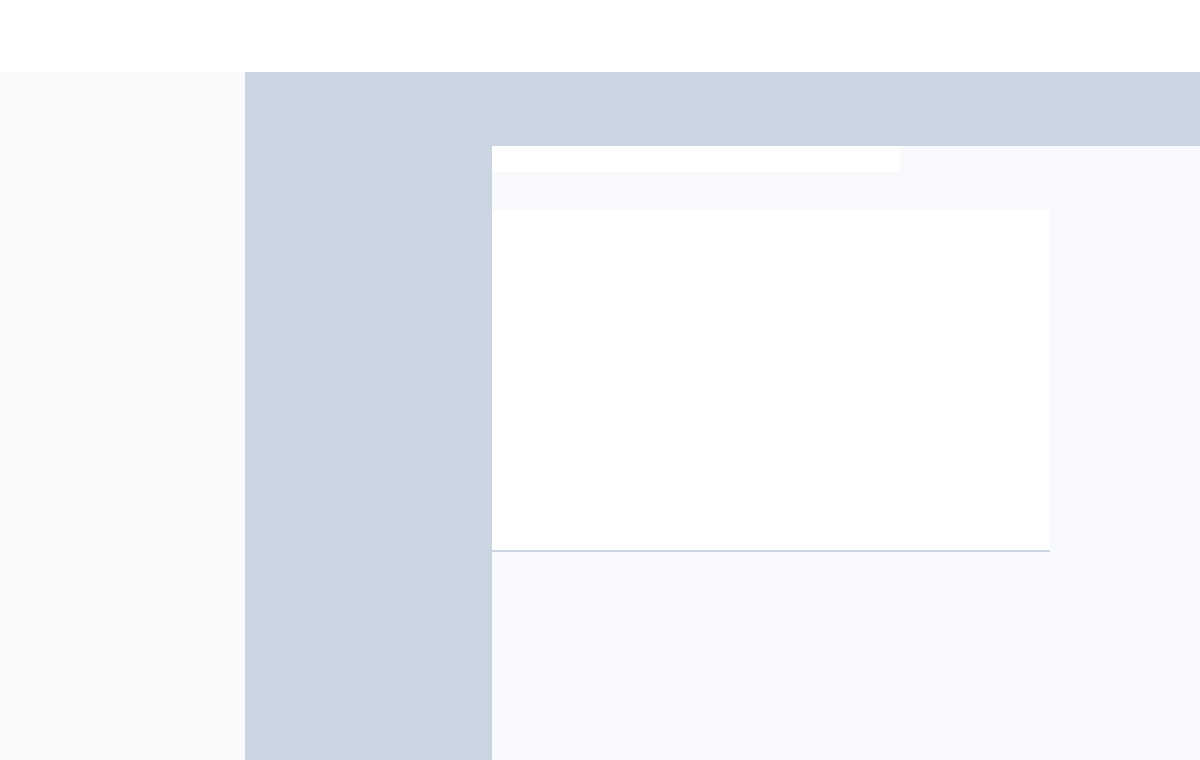
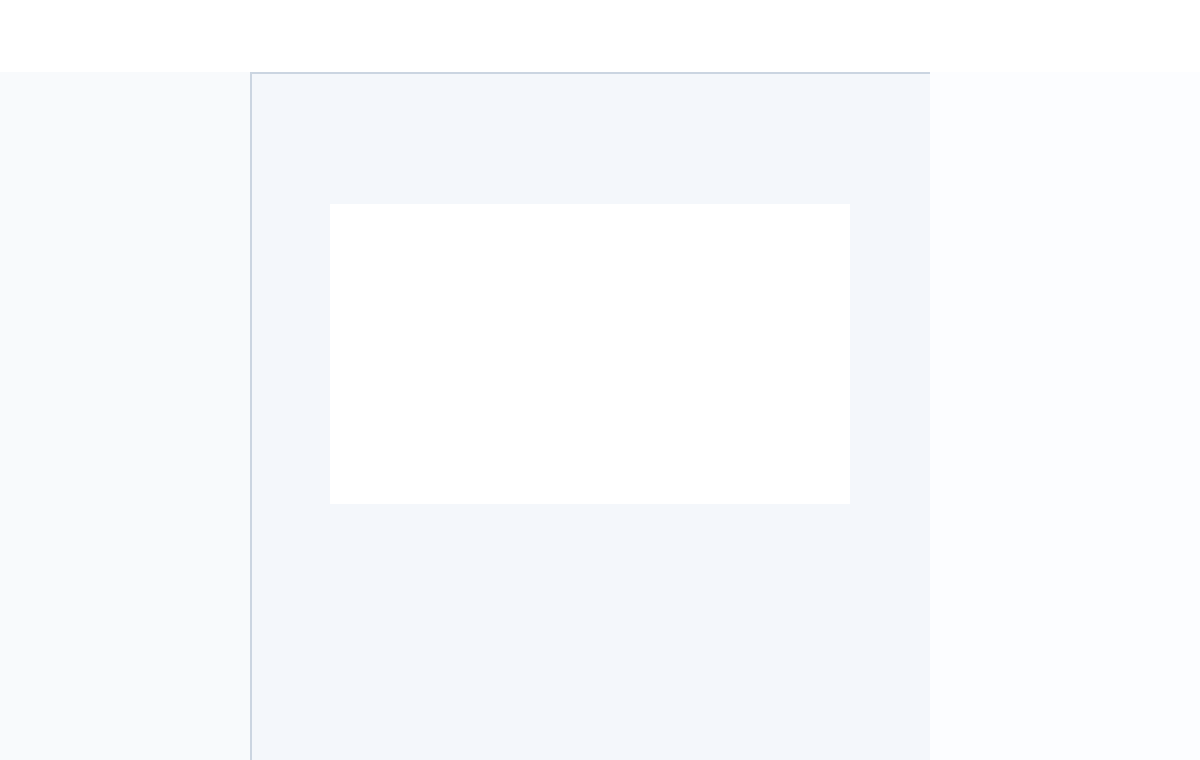
docs: turn sample project into product walkthrough

Changed region(s): [[0.185, 0.0908, 1.0, 1.0]]

diff --git a/packages/recorder-server/src/server.ts b/packages/recorder-server/src/server.ts
@@ -1,5 +1,5 @@
 import express, { Express } from "express";
-import { mkdir } from "node:fs/promises";
+import { access, cp, mkdir } from "node:fs/promises";
 import path from "node:path";
 import {
   appendCapture,
@@ -15,6 +15,7 @@ import {
 export type RecorderServerOptions = {
   workspaceDir: string;
   studioDistDir?: string;
+  sampleProjectDir?: string;
 };
 
 type ActiveSession = {
@@ -108,7 +109,7 @@ export function createRecorderServer(options: RecorderServerOptions): Express {
 
   app.get("/api/projects/:id", async (req, res) => {
     try {
-      const projectDir = await resolveProjectDir(options.workspaceDir, req.params.id);
+      const projectDir = await resolveRequestProjectDir(options, req.params.id);
       res.json(await loadProject(projectDir));
     } catch (error) {
       sendError(res, error, 404);
@@ -117,7 +118,7 @@ export function createRecorderServer(options: RecorderServerOptions): Express {
 
   app.put("/api/projects/:id/steps", async (req, res) => {
     try {
-      const projectDir = await resolveProjectDir(options.workspaceDir, req.params.id);
+      const projectDir = await resolveRequestProjectDir(options, req.params.id);
       const steps = StepSchema.array().parse(req.body?.steps);
       res.json(await saveSteps(projectDir, steps));
     } catch (error) {
@@ -127,7 +128,7 @@ export function createRecorderServer(options: RecorderServerOptions): Express {
 
   app.post("/api/projects/:id/export", async (req, res) => {
     try {
-      const projectDir = await resolveProjectDir(options.workspaceDir, req.params.id);
+      const projectDir = await resolveRequestProjectDir(options, req.params.id);
       const formats = Array.isArray(req.body?.formats) && req.body.formats.length > 0
         ? req.body.formats
         : ["markdown", "html", "json"];
@@ -147,6 +148,31 @@ export function createRecorderServer(options: RecorderServerOptions): Express {
   }
 
   return app;
+}
+
+async function resolveRequestProjectDir(
+  options: RecorderServerOptions,
+  projectId: string
+): Promise<string> {
+  const projectDir = await resolveProjectDir(options.workspaceDir, projectId);
+  if (projectId === "sample-project") {
+    await seedSampleProject(projectDir, options.sampleProjectDir);
+  }
+  return projectDir;
+}
+
+async function seedSampleProject(projectDir: string, sampleProjectDir?: string): Promise<void> {
+  try {
+    await access(projectDir);
+    return;
+  } catch {
+    // Continue and copy the bundled fixture below.
+  }
+
+  const source = sampleProjectDir ?? path.resolve(process.cwd(), "fixtures/sample-project");
+  await access(source);
+  await mkdir(path.dirname(projectDir), { recursive: true });
+  await cp(source, projectDir, { recursive: true });
 }
 
 function sendError(res: express.Response, error: unknown, status = 400): void {

diff --git a/packages/recorder-server/src/server.test.ts b/packages/recorder-server/src/server.test.ts
@@ -29,6 +29,20 @@ describe("recorder server", () => {
     expect(response.body.backgroundRecording).toBe(false);
   });
 
+  it("serves the bundled sample project as a real product walkthrough", async () => {
+    const app = createRecorderServer({
+      workspaceDir: tmpDir,
+      sampleProjectDir: path.resolve("fixtures/sample-project")
+    });
+
+    const response = await invoke(app, "GET", "/api/projects/sample-project");
+
+    expect(response.status).toBe(200);
+    expect(response.body.project.title).toBe("Stepglyph product walkthrough");
+    expect(response.body.steps[0].title).toBe("Start from a blank Studio");
+    expect(response.body.steps[0].description).toContain("empty local Studio");
+  });
+
   it("starts, captures, finishes, loads, and exports a project", async () => {
     const app = createRecorderServer({ workspaceDir: tmpDir });
     const start = await invoke(app, "POST", "/api/sessions/start", { title: "Demo" });

diff --git a/README.md b/README.md
@@ -236,7 +236,7 @@ See [docs/data-format.md](docs/data-format.md) for the schema.
 | `packages/cli` | Developer entrypoint for running the local service. |
 | `apps/studio` | React/Vite local editor for reviewing and exporting captured guides. |
 | `packages/codex-skill` | Codex skill instructions for using the recorder intentionally. |
-| `fixtures/sample-project` | Local sample project loaded by Studio for development. |
+| `fixtures/sample-project` | Built-in product walkthrough loaded by Studio as `sample-project`. |
 | `fixtures/readme-computer-use` | Real Computer Use screenshots used to regenerate this README. |
 | `docs/generated` | Guide files generated through the recorder/export flow. |
 